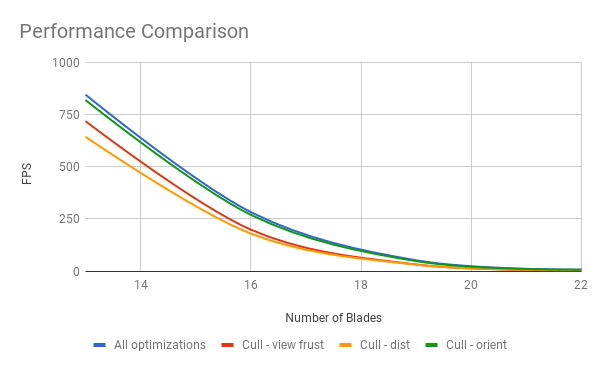
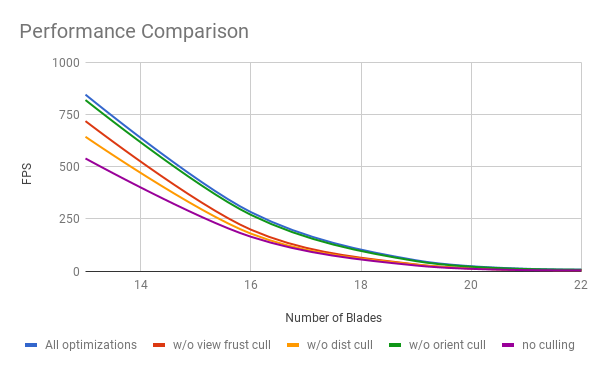
change chart

diff --git a/README.md b/README.md
@@ -113,12 +113,12 @@ The grass blades are tesselated as quads with details based on distance. The bla
 
 ### Performance evaluation
 
-| Blades (2^) | All optimizations | Cull - view frustum | Cull - distance | Cull - orientation |
-| ----- | ----- | ----- | ----- | ----- |
-|13     |    846|  	719 |	644 |	820 |
-|16     |283    |	199	|180    |	270 |
-|19     |52     |	32	|31	    |48     |
-|22     |7      |	5   |	5   |	7   |
+| Blades (2^) | All optimizations | w/o view frust cull | w/o dist cull | w/o orient cull | no culling |
+| ----- | ----- | ----- | ----- | ----- | ----- |
+|13     |    846|  	719 |	644 |	820 | 540 |
+|16     |283    |	199	|180    |	270 | 165 |
+|19     |52     |	32	|31	    |48     | 27 |
+|22     |7      |	5   |	5   |	7   | 4 |
 
 It is worth noting that orientation culling wasn't implemented for performance gain, but to reduce the aliasing artefact. The other two techniques give a significant boost.
 
